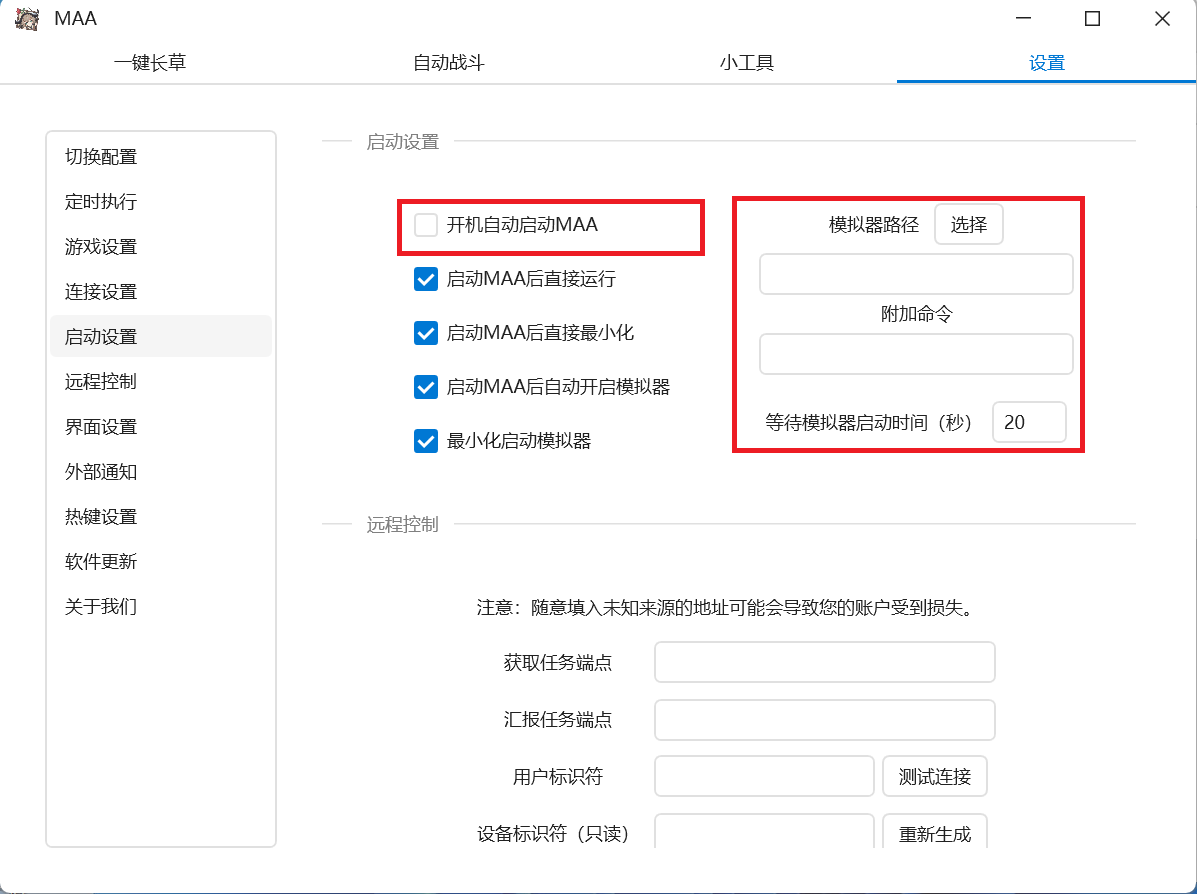
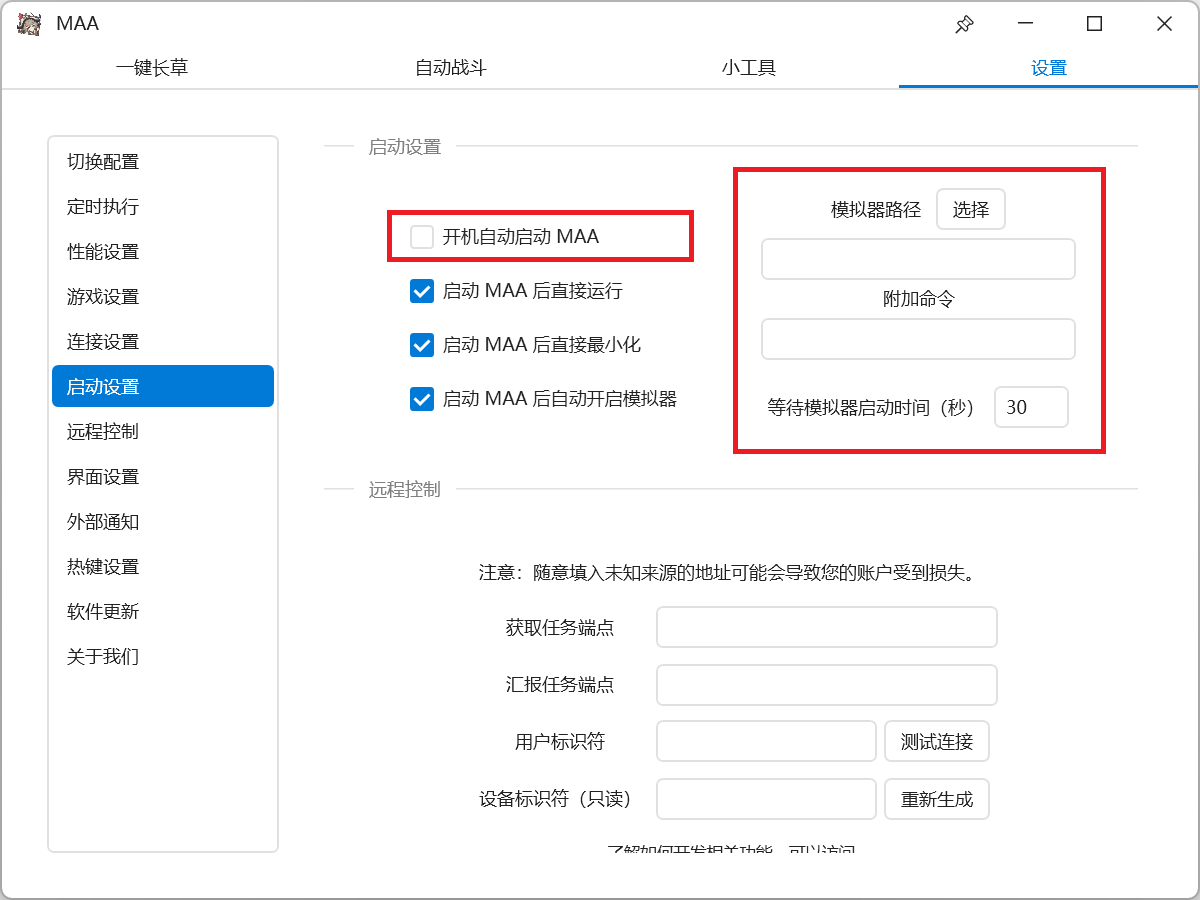
移除最小化启动模拟器选项

diff --git a/AUTO_MAA.py b/AUTO_MAA.py
@@ -655,9 +655,6 @@ class MaaRunner(QtCore.QThread):
                 data["Configurations"]["Default"][
                     "Start.OpenEmulatorAfterLaunch"
                 ] = "False"
-            data["Configurations"]["Default"][
-                "Start.MinimizingStartup"
-            ] = "False"  # 最小化启动模拟器
 
             if self.data[index][15] == "simple":
 
